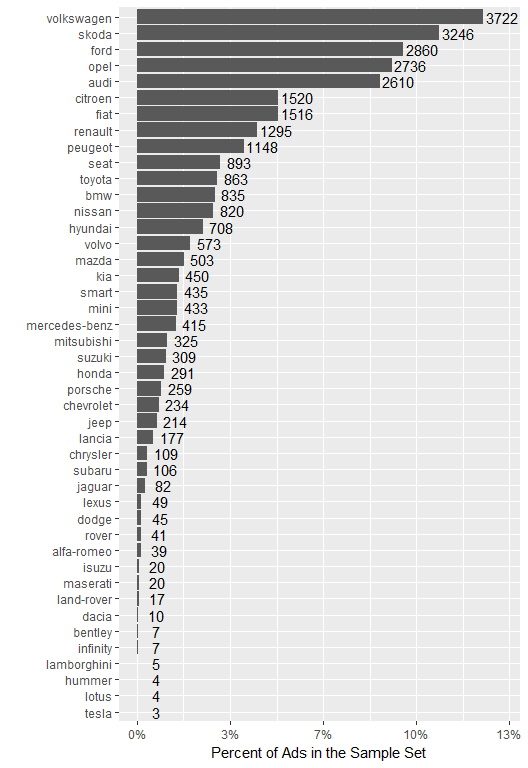
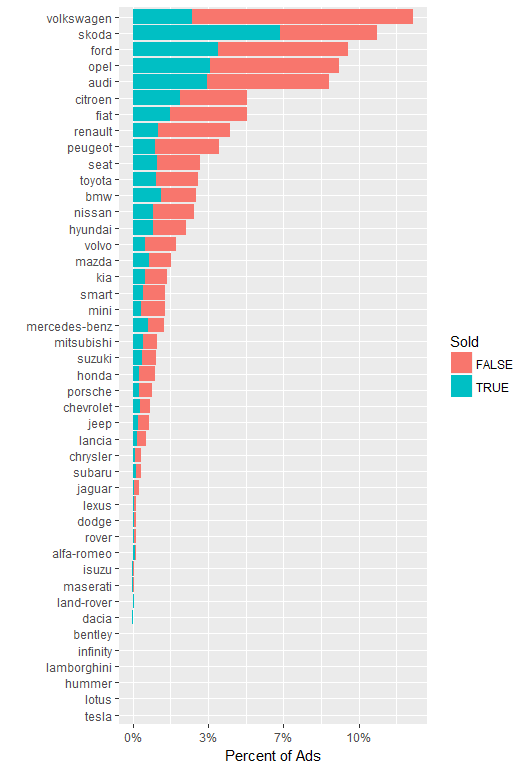
Finished analysis

diff --git a/notebooks/load-data-igorb3.md b/notebooks/load-data-igorb3.md
@@ -35,29 +35,8 @@ the attributes presented on [Classified Ads for
 Cars](https://www.kaggle.com/mirosval/personal-cars-classifieds/home)
 home page.
 
-``` r
-descr <- dbGetQuery(conn, "describe events")
-kable(descr)
-```
-
-| col\_name            | data\_type    | comment |
-| :------------------- | :------------ | :------ |
-| maker                | string        |         |
-| model                | string        |         |
-| mileage              | int           |         |
-| manufacture\_year    | int           |         |
-| engine\_displacement | int           |         |
-| engine\_power        | int           |         |
-| body\_type           | string        |         |
-| color\_slug          | string        |         |
-| stk\_year            | string        |         |
-| transmission         | string        |         |
-| door\_count          | int           |         |
-| seat\_count          | int           |         |
-| fuel\_type           | string        |         |
-| date\_created        | timestamp     |         |
-| date\_last\_seen     | timestamp     |         |
-| price\_eur           | decimal(13,2) |         |
+    descr <- dbGetQuery(conn, "describe events")
+    kable(descr)
 
 Code below selecting first 10 rows for EVENTS table and saves them to
 ‘cars’ dataframe. Note that we rename cars columns for better
@@ -66,23 +45,17 @@ values.
 
 ``` r
 cars <- dbGetQuery(conn, "select * from events limit 6")
-colnames(cars) <- c(
-  "Maker", "Model","Mileage","Year", "Disp", "Pwr", "Body", "Color", "Sticker", 
-  "Trans", "Doors", "Seats", "Fuel", "Listed", "Removed", "Price")
-```
-
-``` r
 kable(cars)
 ```
 
-| Maker | Model   | Mileage | Year | Disp | Pwr | Body | Color | Sticker | Trans | Doors | Seats | Fuel     | Listed                  | Removed                 |    Price |
-| :---- | :------ | ------: | ---: | ---: | --: | :--- | :---- | :------ | :---- | ----: | ----: | :------- | :---------------------- | :---------------------- | -------: |
-| ford  | galaxy  |  151000 | 2011 | 2000 | 103 |      |       | None    | man   |     5 |     7 | diesel   | 2015-11-14 18:10:06.838 | 2016-01-27 20:40:15.463 | 10584.75 |
-| skoda | octavia |  143476 | 2012 | 2000 |  81 |      |       | None    | man   |     5 |     5 | diesel   | 2015-11-14 18:10:06.853 | 2016-01-27 20:40:15.463 |  8882.31 |
-| bmw   |         |   97676 | 2010 | 1995 |  85 |      |       | None    | man   |     5 |     5 | diesel   | 2015-11-14 18:10:06.861 | 2016-01-27 20:40:15.463 | 12065.06 |
-| skoda | fabia   |  111970 | 2004 | 1200 |  47 |      |       | None    | man   |     5 |     5 | gasoline | 2015-11-14 18:10:06.872 | 2016-01-27 20:40:15.463 |  2960.77 |
-| skoda | fabia   |  128886 | 2004 | 1200 |  47 |      |       | None    | man   |     5 |     5 | gasoline | 2015-11-14 18:10:06.88  | 2016-01-27 20:40:15.463 |  2738.71 |
-| skoda | fabia   |  140932 | 2003 | 1200 |  40 |      |       | None    | man   |     5 |     5 | gasoline | 2015-11-14 18:10:06.894 | 2016-01-27 20:40:15.463 |  1628.42 |
+| events.maker | events.model | events.mileage | events.manufacture\_year | events.engine\_displacement | events.engine\_power | events.body\_type | events.color\_slug | events.stk\_year | events.transmission | events.door\_count | events.seat\_count | events.fuel\_type | events.date\_created    | events.date\_last\_seen | events.price\_eur |
+| :----------- | :----------- | -------------: | -----------------------: | --------------------------: | -------------------: | :---------------- | :----------------- | :--------------- | :------------------ | -----------------: | -----------------: | :---------------- | :---------------------- | :---------------------- | ----------------: |
+| ford         | galaxy       |         151000 |                     2011 |                        2000 |                  103 |                   |                    | None             | man                 |                  5 |                  7 | diesel            | 2015-11-14 18:10:06.838 | 2016-01-27 20:40:15.463 |          10584.75 |
+| skoda        | octavia      |         143476 |                     2012 |                        2000 |                   81 |                   |                    | None             | man                 |                  5 |                  5 | diesel            | 2015-11-14 18:10:06.853 | 2016-01-27 20:40:15.463 |           8882.31 |
+| bmw          |              |          97676 |                     2010 |                        1995 |                   85 |                   |                    | None             | man                 |                  5 |                  5 | diesel            | 2015-11-14 18:10:06.861 | 2016-01-27 20:40:15.463 |          12065.06 |
+| skoda        | fabia        |         111970 |                     2004 |                        1200 |                   47 |                   |                    | None             | man                 |                  5 |                  5 | gasoline          | 2015-11-14 18:10:06.872 | 2016-01-27 20:40:15.463 |           2960.77 |
+| skoda        | fabia        |         128886 |                     2004 |                        1200 |                   47 |                   |                    | None             | man                 |                  5 |                  5 | gasoline          | 2015-11-14 18:10:06.88  | 2016-01-27 20:40:15.463 |           2738.71 |
+| skoda        | fabia        |         140932 |                     2003 |                        1200 |                   40 |                   |                    | None             | man                 |                  5 |                  5 | gasoline          | 2015-11-14 18:10:06.894 | 2016-01-27 20:40:15.463 |           1628.42 |
 
 The EVENTS table has 3,552,912 records which could be confirmed by
 running the HQL statement below.
@@ -93,81 +66,120 @@ For the analysis we will extract not more than 30K rows from EVENT table
 randomly using the HQL statement below. We skip the rows mising the most
 important attributes:
 
-``` r
-filter <- paste(
-      " maker <> ''",
-      " AND model <> ''",
-      " AND mileage is not NULL",
-      " AND manufacture_year is not NULL",
-      " AND price_eur is not NULL"
-) 
-count <- dbGetQuery(conn, paste("select count(*) from events", " WHERE", filter))
-cars.sample.totalFilered <- count$`_c0`
-```
+    filter <- paste(
+          " maker <> ''",
+          " AND model <> ''",
+          " AND mileage is not NULL",
+          " AND manufacture_year is not NULL",
+          " AND price_eur is not NULL"
+    ) 
+    count <- dbGetQuery(conn, paste("select count(*) from events", " WHERE", filter))
+    cars.sample.totalFilered <- count$`_c0`
+
+    car.sample.maxSize <- 30000
+    lim <- car.sample.maxSize/cars.sample.totalFilered
+    
+    sample_HQL <- paste(
+      "select * from events WHERE", filter,
+          " AND rand(123) < ", lim,
+      " limit ", car.sample.maxSize
+    ) 
+    
+    cars.sample <- dbGetQuery(conn, sample_HQL)
+    colnames(cars.sample) <- c(
+      "Maker", "Model","Mileage","Year", "Disp", "Pwr", "Body", "Color", "Sticker", 
+      "Trans", "Doors", "Seats", "Fuel", "Listed", "Removed", "Price")
 
 ``` r
-car.sample.maxSize <- 30000
-lim <- car.sample.maxSize/cars.sample.totalFilered
-
-sample_HQL <- paste(
-  "select * from events WHERE", filter,
-      " AND rand(123) < ", lim,
-  " limit ", 1.2 * car.sample.maxSize
-) 
-
-cars.sample <- dbGetQuery(conn, sample_HQL)
-colnames(cars.sample) <- c(
-  "Maker", "Model","Mileage","Year", "Disp", "Pwr", "Body", "Color", "Sticker", 
-  "Trans", "Doors", "Seats", "Fuel", "Listed", "Removed", "Price")
-
 nrow(cars.sample)
 ```
 
     ## [1] 29958
 
+Creating additional columns for
+analysis
+
+``` r
+cars.sample$ListedTS <- strptime(cars.sample$Listed, '%Y-%m-%d %H:%M:%OS')
+cars.sample$RemovedTS <- strptime(cars.sample$Removed, '%Y-%m-%d %H:%M:%OS')
+
+cars.sample$Age <- as.integer(ceiling(
+  difftime(cars.sample$ListedTS, strptime(cars.sample$Year,'%Y'), units = "days")/365))
+
+cars.sample$DaysListed <- as.integer(ceiling(
+  difftime(cars.sample$RemovedTS, cars.sample$ListedTS, units = "days")))
+```
+
+How long the cars are usually listed?
+
+``` r
+ggplot(cars.sample, aes(x=DaysListed)) + 
+  geom_density(fill="#FF6666", alpha=.1) +
+  geom_vline(aes(xintercept=42), color="blue", linetype="dashed", size=1) +
+  geom_vline(aes(xintercept=60), color="red", linetype="dashed", size=1)
+```
+
+![](load-data-igorb3_files/figure-gfm/unnamed-chunk-7-1.png)<!-- -->
+
+Let’s consider cars listed less than 42 days (6 weeks) to be sold
+
+``` r
+cars.sample$Sold <- cars.sample$DaysListed <= 42
+```
+
+What is the distribition of advertized cars age?
+
+``` r
+ggplot(cars.sample, aes(x=Age)) + 
+  geom_density(fill="#FF6666", alpha=.1) +
+  scale_x_continuous(limits = c(0, 30))+
+    geom_vline(aes(xintercept=mean(Age, na.rm=T)),
+               color="green", linetype="dashed", size=1)
+```
+
+![](load-data-igorb3_files/figure-gfm/unnamed-chunk-9-1.png)<!-- -->
+
 ``` r
 kable(head(cars.sample))
 ```
 
-| Maker | Model    | Mileage | Year | Disp | Pwr | Body | Color | Sticker | Trans | Doors | Seats | Fuel     | Listed                  | Removed                 |   Price |
-| :---- | :------- | ------: | ---: | ---: | --: | :--- | :---- | :------ | :---- | ----: | ----: | :------- | :---------------------- | :---------------------- | ------: |
-| skoda | citigo   |   10349 | 2014 | 1000 |  44 |      |       | None    | auto  |     5 |     4 | gasoline | 2015-11-14 18:54:16.065 | 2016-01-27 20:40:15.463 | 8142.12 |
-| fiat  | marea    |  300017 | 2000 | 1581 |  76 |      |       | None    | man   |     5 |     5 | gasoline | 2015-11-14 18:55:23.485 | 2016-01-27 20:40:15.463 |  736.49 |
-| skoda | octavia  |  145665 | 2003 | 1595 |  75 |      |       | None    | man   |     5 |     5 | gasoline | 2015-11-14 18:55:29.401 | 2016-01-27 20:40:15.463 | 4276.65 |
-| skoda | citigo   |    9800 | 2015 |  999 |  44 |      |       | None    | man   |     5 |     4 | gasoline | 2015-11-14 18:55:33.465 | 2016-01-27 20:40:15.463 | 7768.32 |
-| kia   | sportage |       1 | 2001 | 1998 |  61 |      |       | None    | man   |     5 |     5 | diesel   | 2015-11-14 18:55:35.467 | 2016-01-27 20:40:15.463 | 1813.47 |
-| skoda | superb   |  234000 | 2002 | 1900 |  96 |      |       | None    |       |     4 |     5 | diesel   | 2015-11-14 18:55:35.74  | 2016-01-27 20:40:15.463 | 3293.86 |
+| Maker | Model    | Mileage | Year | Disp | Pwr | Body | Color | Sticker | Trans | Doors | Seats | Fuel     | Listed                  | Removed                 |   Price | ListedTS            | RemovedTS           | Age | DaysListed | Sold  |
+| :---- | :------- | ------: | ---: | ---: | --: | :--- | :---- | :------ | :---- | ----: | ----: | :------- | :---------------------- | :---------------------- | ------: | :------------------ | :------------------ | --: | ---------: | :---- |
+| skoda | citigo   |   10349 | 2014 | 1000 |  44 |      |       | None    | auto  |     5 |     4 | gasoline | 2015-11-14 18:54:16.065 | 2016-01-27 20:40:15.463 | 8142.12 | 2015-11-14 18:54:16 | 2016-01-27 20:40:15 |   2 |         75 | FALSE |
+| fiat  | marea    |  300017 | 2000 | 1581 |  76 |      |       | None    | man   |     5 |     5 | gasoline | 2015-11-14 18:55:23.485 | 2016-01-27 20:40:15.463 |  736.49 | 2015-11-14 18:55:23 | 2016-01-27 20:40:15 |  16 |         75 | FALSE |
+| skoda | octavia  |  145665 | 2003 | 1595 |  75 |      |       | None    | man   |     5 |     5 | gasoline | 2015-11-14 18:55:29.401 | 2016-01-27 20:40:15.463 | 4276.65 | 2015-11-14 18:55:29 | 2016-01-27 20:40:15 |  13 |         75 | FALSE |
+| skoda | citigo   |    9800 | 2015 |  999 |  44 |      |       | None    | man   |     5 |     4 | gasoline | 2015-11-14 18:55:33.465 | 2016-01-27 20:40:15.463 | 7768.32 | 2015-11-14 18:55:33 | 2016-01-27 20:40:15 |   1 |         75 | FALSE |
+| kia   | sportage |       1 | 2001 | 1998 |  61 |      |       | None    | man   |     5 |     5 | diesel   | 2015-11-14 18:55:35.467 | 2016-01-27 20:40:15.463 | 1813.47 | 2015-11-14 18:55:35 | 2016-01-27 20:40:15 |  15 |         75 | FALSE |
+| skoda | superb   |  234000 | 2002 | 1900 |  96 |      |       | None    |       |     4 |     5 | diesel   | 2015-11-14 18:55:35.74  | 2016-01-27 20:40:15.463 | 3293.86 | 2015-11-14 18:55:35 | 2016-01-27 20:40:15 |  14 |         75 | FALSE |
 
 ``` r
 # summary(cars.sample)
 ```
 
-What is the best selling car maker?
+What is the most advertized vs sold car maker?
 
 ``` r
 require(forcats)
 total <- nrow(cars.sample)
-ggplot(cars.sample, aes(fct_rev(fct_infreq(Maker)))) +
-       geom_bar() + 
-       geom_text(stat = "count", aes(label = ..count.., y = ..count..), nudge_y = 200)+
-       labs(x="", y="Percent of Ads in the Sample Set") +
+ggplot(cars.sample, aes(fct_rev(fct_infreq(Maker)), fill=Sold)) +
+       geom_bar() +
+       labs(x="", y="Percent of Ads") +
         scale_y_continuous(labels = function(x) sprintf("%.0f%%",x/total*100)) +
        coord_flip()
 ```
 
 <img src="load-data-igorb3_files/figure-gfm/hist_1-1.png" title="Number of Ads by Maker" alt="Number of Ads by Maker" style="display: block; margin: auto;" />
 
-What is the best selling car model?
+What is the 20 best advertived vs sold car models?
 
 ``` r
 require(forcats)
 total <- nrow(cars.sample)
 cars.sample$Car <- paste(cars.sample$Maker, cars.sample$Model)
 betsCarsList <- fct_infreq(cars.sample$Car)
-cars.sample.bestCars <- cars.sample[cars.sample$Car %in%  levels(betsCarsList)[1:40],]
-ggplot(cars.sample.bestCars, aes(fct_rev(fct_infreq(Car)))) +
+cars.sample.bestCars <- cars.sample[cars.sample$Car %in%  levels(betsCarsList)[1:20],]
+ggplot(cars.sample.bestCars, aes(fct_rev(fct_infreq(Car)), fill=Sold)) +
        geom_bar() + 
-       geom_text(stat = "count", aes(label = ..count.., y = ..count..), nudge_y = 75)+
        labs(x="", y="Percent of Ads in the Sample Set") +
        scale_y_continuous(labels = function(x) sprintf("%.0f%%",x/total*100)) + 
       coord_flip()
@@ -175,7 +187,7 @@ ggplot(cars.sample.bestCars, aes(fct_rev(fct_infreq(Car)))) +
 
 <img src="load-data-igorb3_files/figure-gfm/hist_2-1.png" title="40 Best Car Models" alt="40 Best Car Models" style="display: block; margin: auto;" />
 
-What is the best selling car?
+What is the best 20 advertised vs sold cars?
 
 ``` r
 require(forcats)
@@ -183,15 +195,37 @@ total <- nrow(cars.sample)
 cars.sample$Car1 <- paste(cars.sample$Maker, cars.sample$Model, cars.sample$Year)
 betsCarsList <- fct_infreq(cars.sample$Car1)
 cars.sample.bestCars <- cars.sample[cars.sample$Car1 %in%  levels(betsCarsList)[1:20],]
-ggplot(cars.sample.bestCars, aes(fct_rev(fct_infreq(Car1)))) +
+ggplot(cars.sample.bestCars, aes(fct_rev(fct_infreq(Car1)), fill=Sold)) +
        geom_bar() + 
-       geom_text(stat = "count", aes(label = ..count.., y = ..count..), nudge_y = 10)+
        labs(x="", y="Percent of Ads in the Sample Set") +
        scale_y_continuous(labels = function(x) sprintf("%.2f%%",x/total*100)) + 
       coord_flip()
 ```
 
 <img src="load-data-igorb3_files/figure-gfm/hist_3-1.png" title="20 Best Cars" alt="20 Best Cars" style="display: block; margin: auto;" />
+
+What is the distribution of car prices in the ads for the cars that were
+not sold?
+
+``` r
+ggplot(cars.sample[!(cars.sample$Sold),], aes(x=Price)) + 
+  geom_density(fill="#FF6666", alpha=.1) +
+  scale_x_continuous(limits = c(0, 80000)) +
+    geom_vline(aes(xintercept=mean(Price, na.rm=T)), color="red", linetype="dashed", size=1)
+```
+
+![](load-data-igorb3_files/figure-gfm/unnamed-chunk-12-1.png)<!-- -->
+
+What is the distribution of car prices of the cars that were sold?
+
+``` r
+ggplot(cars.sample[cars.sample$Sold,], aes(x=Price)) + 
+  geom_density(fill="#FF6666", alpha=.1) +
+  scale_x_continuous(limits = c(0, 80000)) +
+    geom_vline(aes(xintercept=mean(Price, na.rm=T)), color="red", linetype="dashed", size=1)
+```
+
+![](load-data-igorb3_files/figure-gfm/unnamed-chunk-13-1.png)<!-- -->
 
 ## Disconnecting from the HIVE
 
